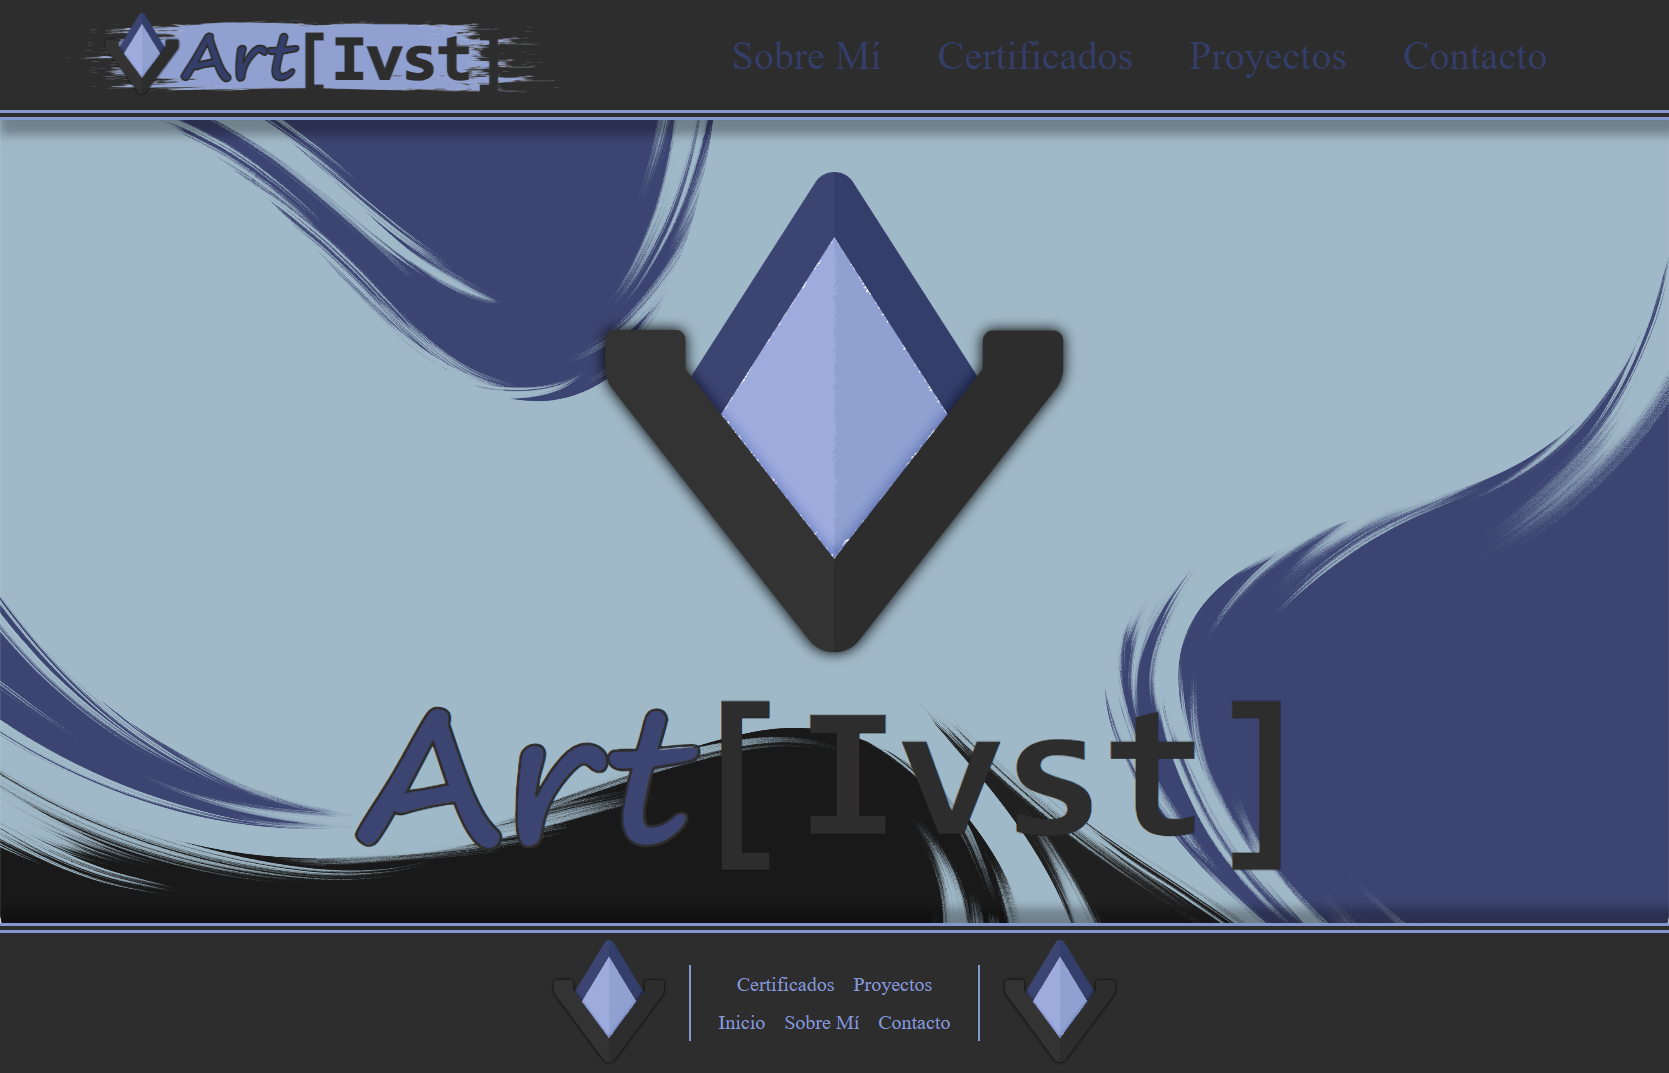
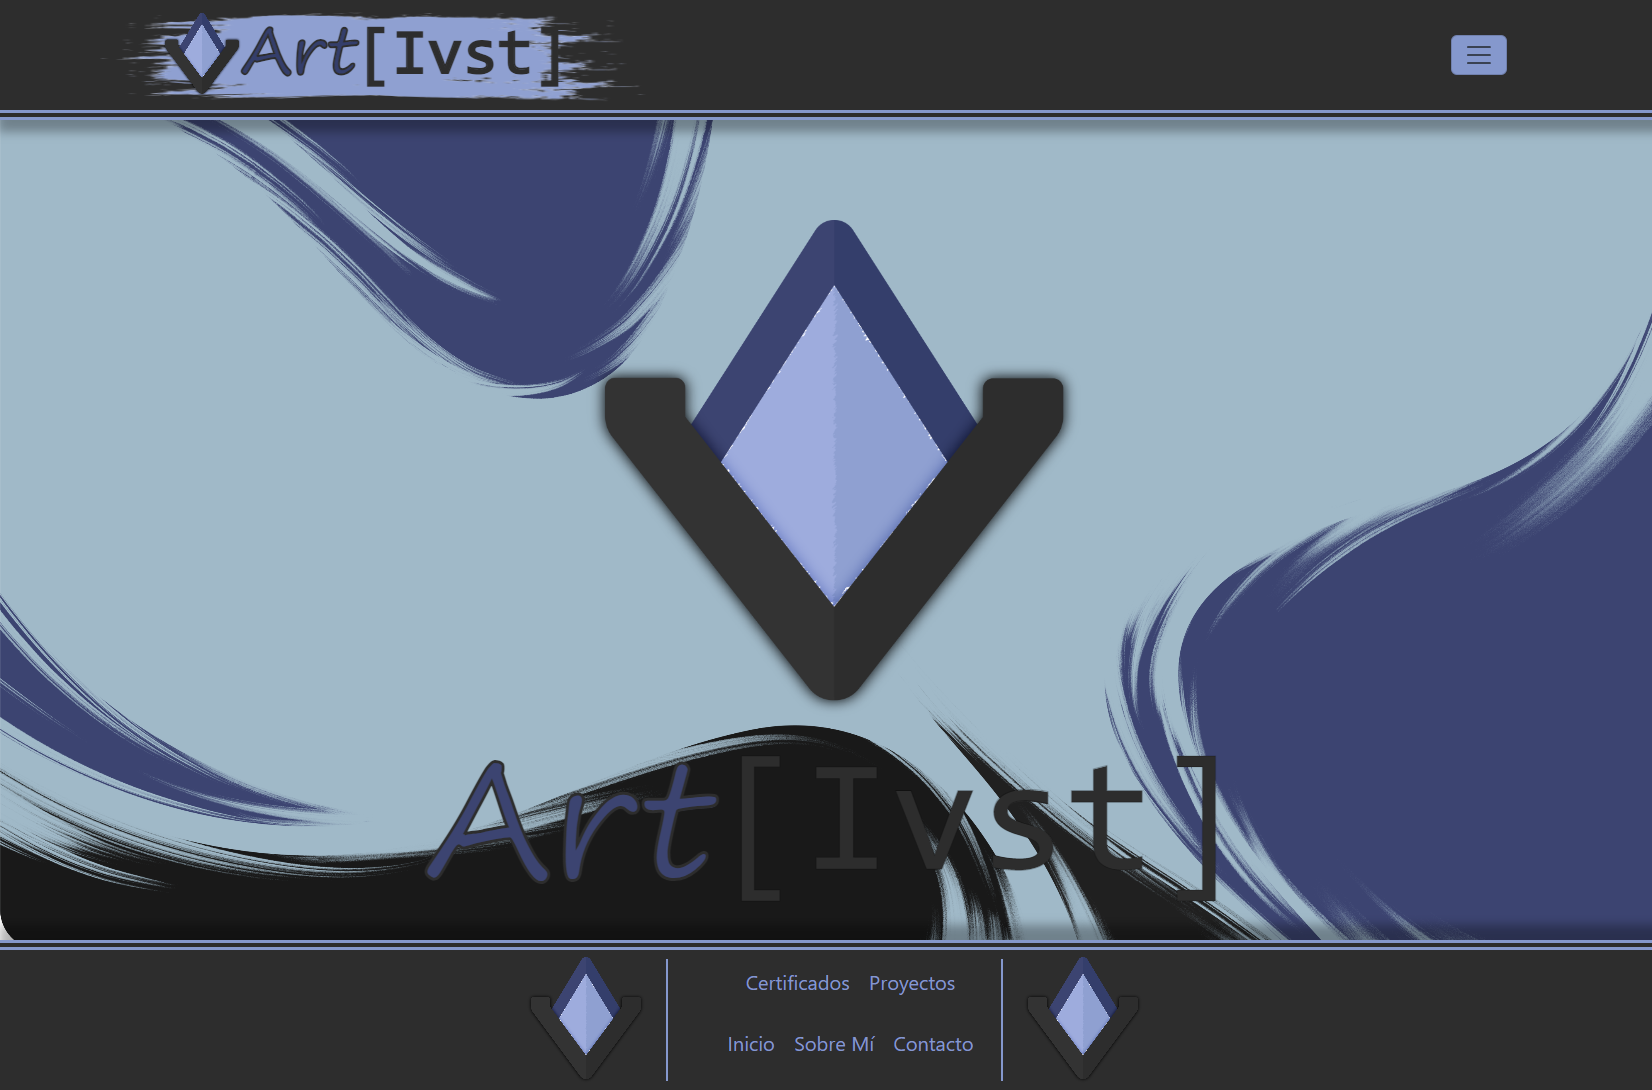
version1.3

diff --git a/css/style.css b/css/style.css
@@ -13,11 +13,15 @@ a, li {
   text-shadow: none;
 }
 
+ul {
+  padding: 0;
+}
+
 main {
   min-height: 100vh;
   max-width: 100vw;
   background-color: #2d2d2d;
-  padding: 20px 40px;
+  padding: 0px 20px;
 }
 
 header .navbar {
@@ -164,14 +168,10 @@ footer .f-logo img {
 footer .nav-f {
   display: inline-block;
   text-align: center;
-  justify-self: center;
-  grid-area: navFooter;
   border-left: solid 2px #8598cd;
   border-right: solid 2px #8598cd;
-  padding-left: 20px;
-  margin-left: 20px;
-  padding-right: 20px;
-  margin-right: 20px;
+  padding: 0 20px;
+  margin: 0 20px;
   width: fit-content;
 }
 footer .nav-f ul li {
@@ -255,7 +255,6 @@ footer .f-logo2 img {
   padding-top: 120px;
 }
 #main-banner .logo-main-page {
-  padding-top: 100px;
   display: flex;
   align-items: center;
   justify-content: center;

diff --git a/pages/certificados.html b/pages/certificados.html
@@ -3,7 +3,9 @@
 <head>
     <meta charset="UTF-8">
     <meta name="viewport" content="width=device-width, initial-scale=1.0">
-    
+    <meta name="description" content="Pequeño desarrollador y diseñador web. ArtIvst busca que tu página sea única.">
+    <meta name="keywords" content="certificado artivst, validacion, conocimientos, ilustrator, photoshop, desarrollo web"> 
+
     <link href="https://cdn.jsdelivr.net/npm/bootstrap@5.3.2/dist/css/bootstrap.min.css" rel="stylesheet" integrity="sha384-T3c6CoIi6uLrA9TneNEoa7RxnatzjcDSCmG1MXxSR1GAsXEV/Dwwykc2MPK8M2HN" crossorigin="anonymous">
 
     <link rel="stylesheet" href="../css/style.css">

diff --git a/pages/proyectos.html b/pages/proyectos.html
@@ -3,7 +3,9 @@
 <head>
     <meta charset="UTF-8">
     <meta name="viewport" content="width=device-width, initial-scale=1.0">
-
+    <meta name="description" content="Pequeño desarrollador y diseñador web. ArtIvst busca que tu página sea única.">
+    <meta name="keywords" content="proyectos artivst, brand desing, pagina artivst"> 
+    
     <link href="https://cdn.jsdelivr.net/npm/bootstrap@5.3.2/dist/css/bootstrap.min.css" rel="stylesheet" integrity="sha384-T3c6CoIi6uLrA9TneNEoa7RxnatzjcDSCmG1MXxSR1GAsXEV/Dwwykc2MPK8M2HN" crossorigin="anonymous">
 
     <link rel="stylesheet" href="../css/style.css">

diff --git a/pages/aboutme.html b/pages/aboutme.html
@@ -3,6 +3,8 @@
 <head>
     <meta charset="UTF-8">
     <meta name="viewport" content="width=device-width, initial-scale=1.0">
+    <meta name="description" content="Pequeño desarrollador y diseñador web. ArtIvst busca que tu página sea única.">
+    <meta name="keywords" content="sobre artivst, diseño, programacion, intro, about me"> 
 
     <link href="https://cdn.jsdelivr.net/npm/bootstrap@5.3.2/dist/css/bootstrap.min.css" rel="stylesheet" integrity="sha384-T3c6CoIi6uLrA9TneNEoa7RxnatzjcDSCmG1MXxSR1GAsXEV/Dwwykc2MPK8M2HN" crossorigin="anonymous">
     

diff --git a/pages/contacto.html b/pages/contacto.html
@@ -3,6 +3,8 @@
 <head>
     <meta charset="UTF-8">
     <meta name="viewport" content="width=device-width, initial-scale=1.0">
+    <meta name="description" content="Pequeño desarrollador y diseñador web. ArtIvst busca que tu página sea única.">
+    <meta name="keywords" content="contacto artivst, tarjeta de contacto"> 
 
     <link href="https://cdn.jsdelivr.net/npm/bootstrap@5.3.2/dist/css/bootstrap.min.css" rel="stylesheet" integrity="sha384-T3c6CoIi6uLrA9TneNEoa7RxnatzjcDSCmG1MXxSR1GAsXEV/Dwwykc2MPK8M2HN" crossorigin="anonymous">
 

diff --git a/sass/_footer.scss b/sass/_footer.scss
@@ -19,14 +19,10 @@ footer {
     .nav-f {
         display: inline-block;
         text-align: center;
-        justify-self: center;
-        grid-area: navFooter;
         border-left: solid 2px #8598cd;
         border-right: solid 2px #8598cd;
-        padding-left: 20px;
-        margin-left: 20px;
-        padding-right: 20px;
-        margin-right: 20px;
+        padding: 0 20px;
+        margin: 0 20px;
         width: fit-content;
         ul li {
             margin: 7.5px;

diff --git a/sass/_estilopage.scss b/sass/_estilopage.scss
@@ -10,9 +10,12 @@ a , li {
     font-style: none;
     text-shadow: none;
 }
+ul {
+    padding: 0;
+}
 main{
     min-height: 100vh;
     max-width: 100vw;
     background-color: #2d2d2d;
-    padding: 20px 40px;
+    padding: 0px 20px;
 }

diff --git a/sass/index/_mainindex.scss b/sass/index/_mainindex.scss
@@ -8,7 +8,6 @@
     justify-content: center;
     padding-top: 120px;
     .logo-main-page {
-        padding-top: 100px;
         display: flex;
         align-items: center;
         justify-content: center;
